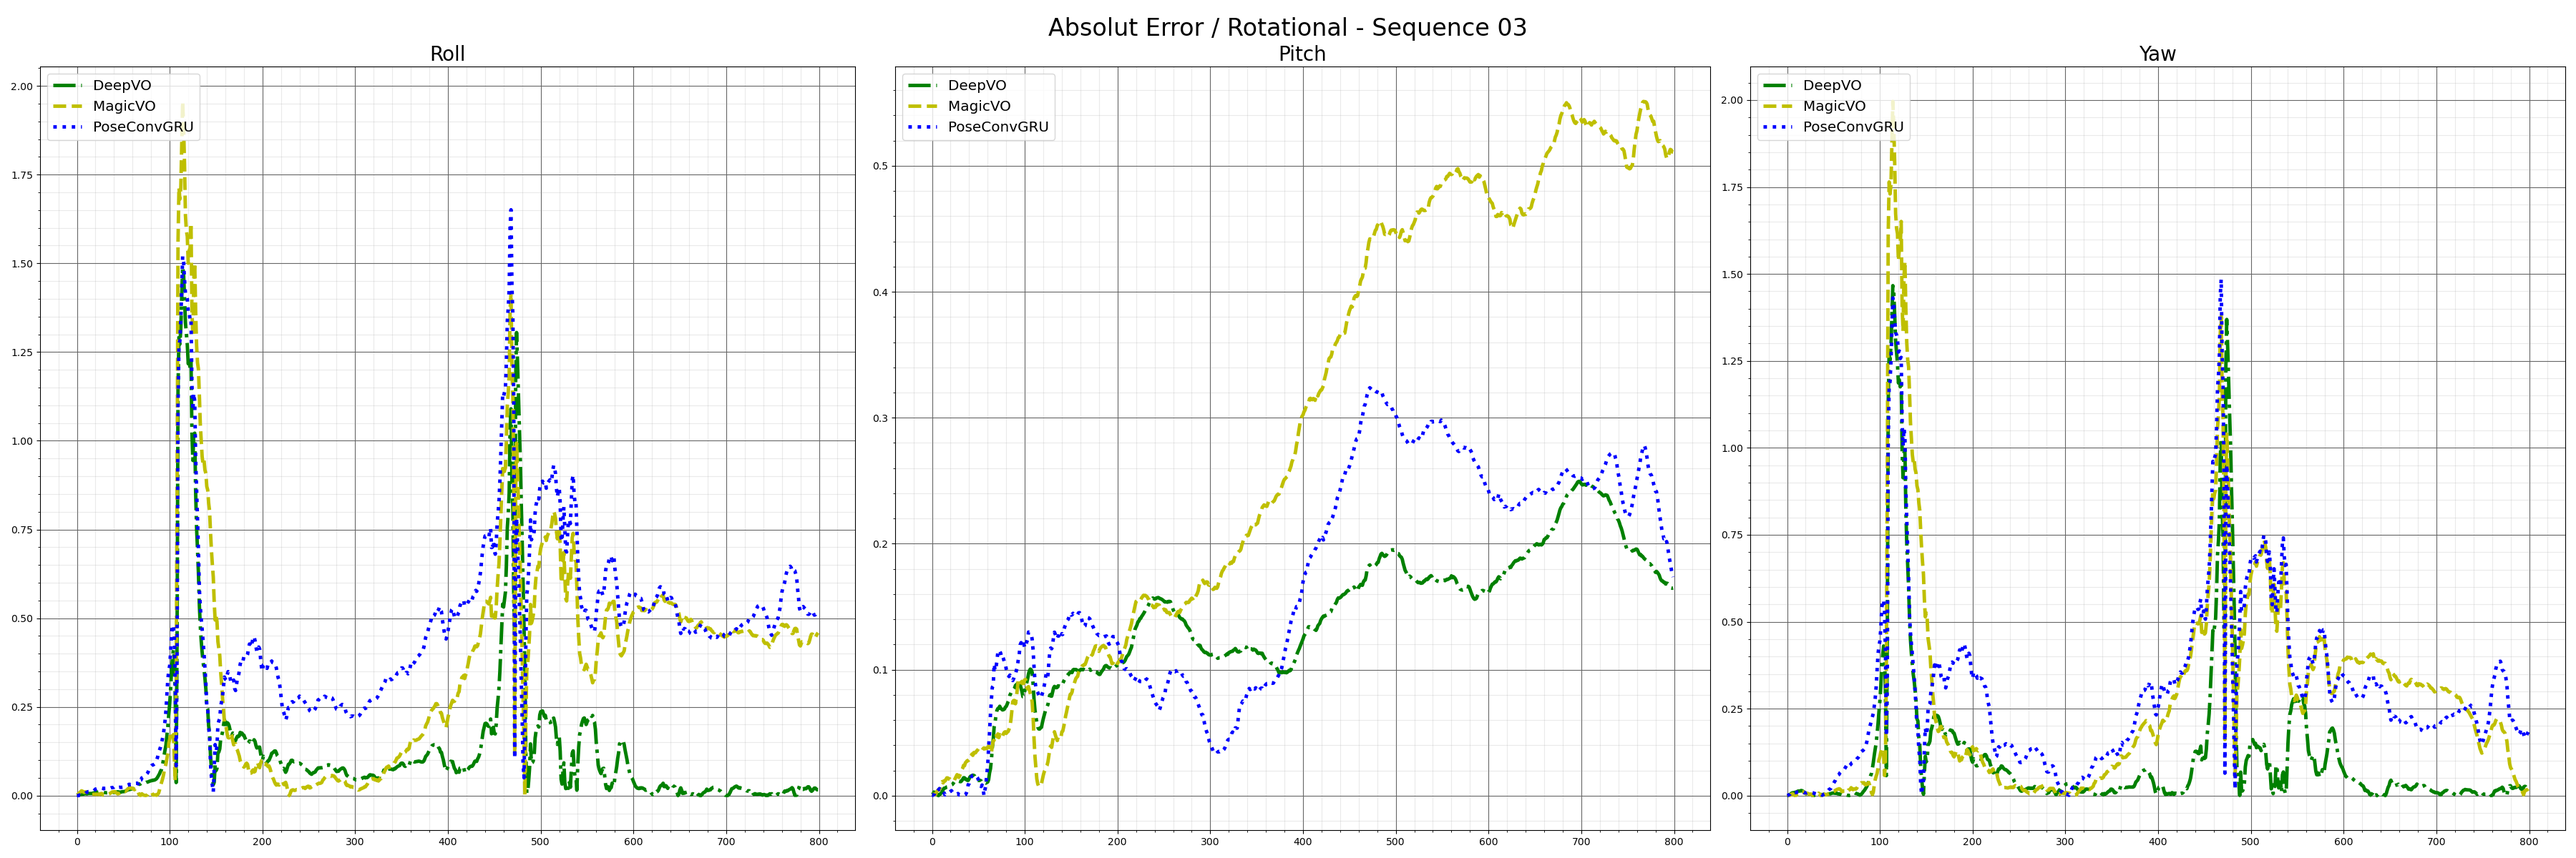
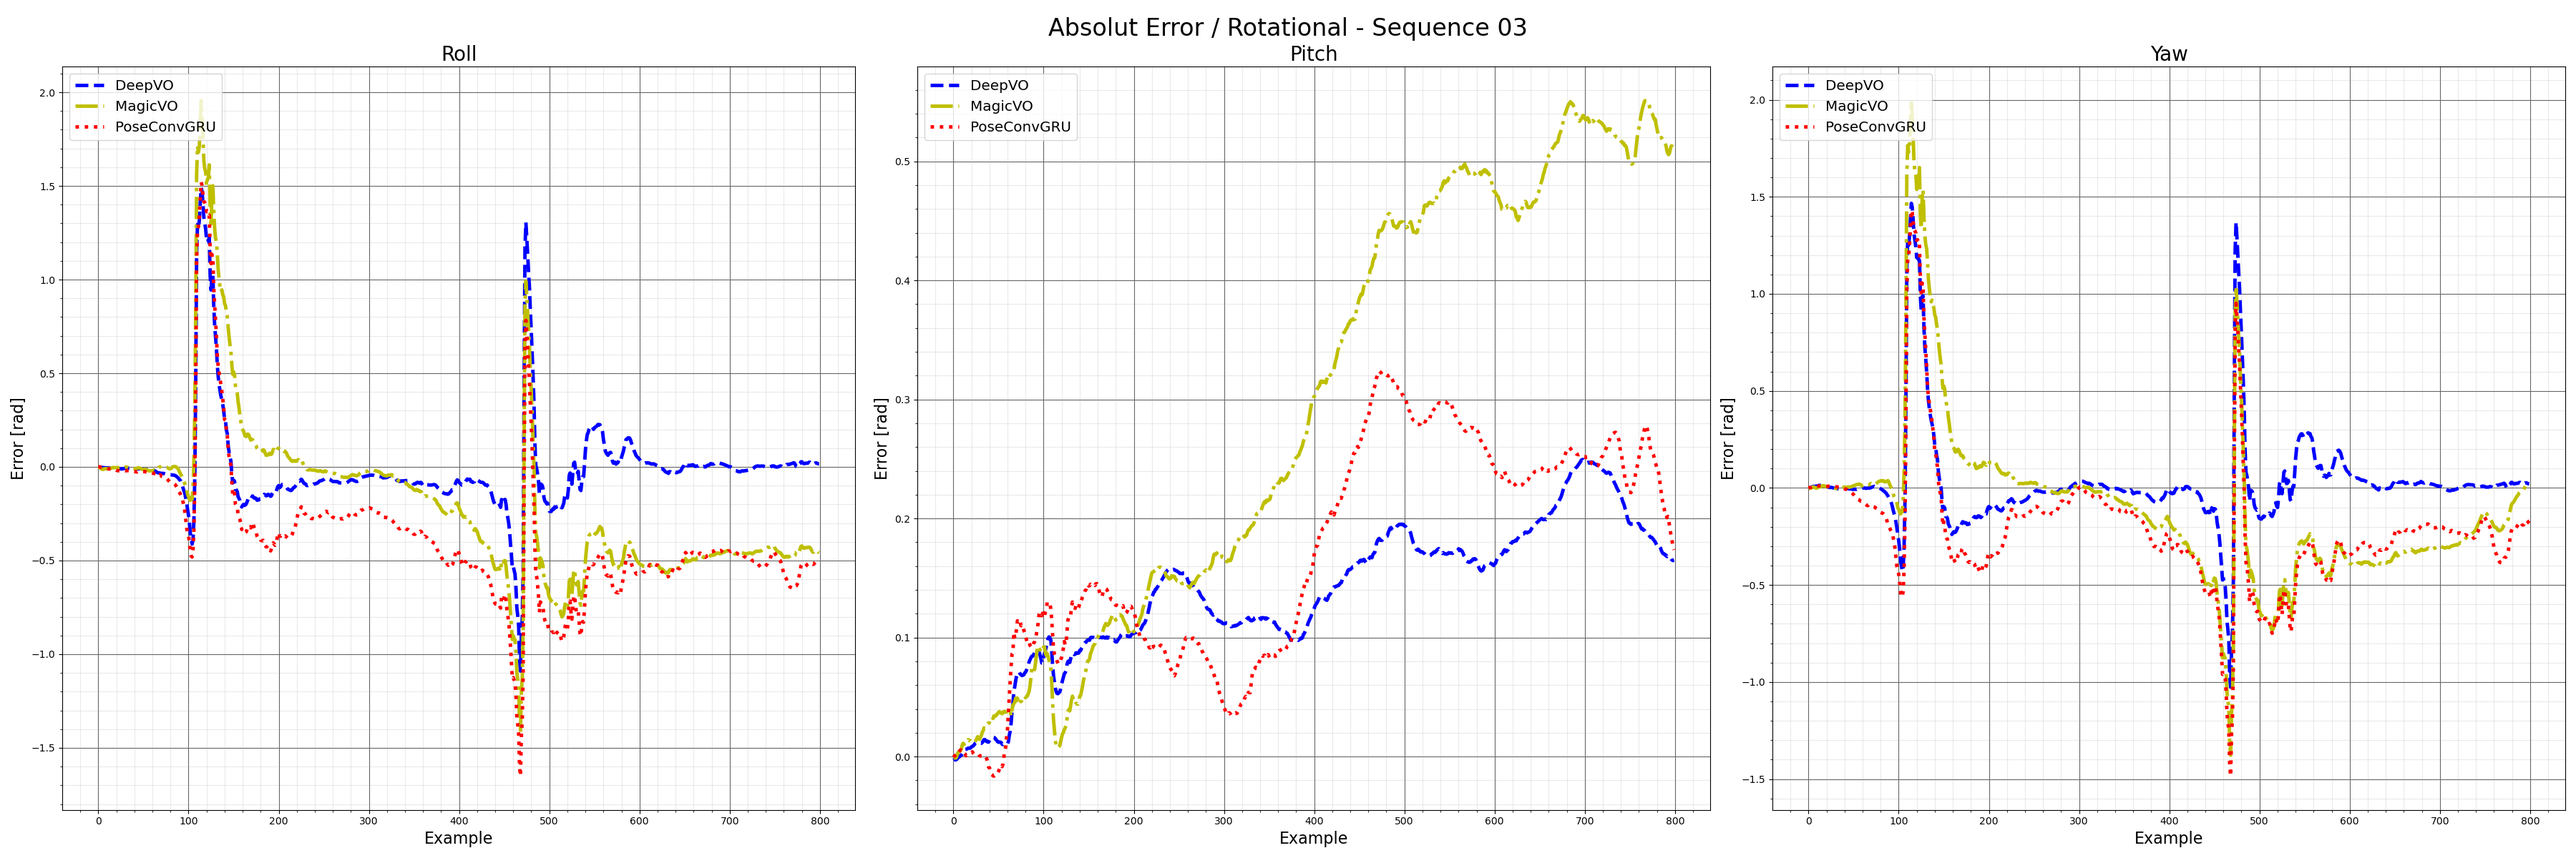
Change output images

diff --git a/visualizer.py b/visualizer.py
@@ -12,17 +12,17 @@ import numpy as np
 import pandas as pd
 
 
-def plot_route(ax, x_gt, z_gt, x_est, z_est, method, sequence):
+def plot_route(ax, x_gt, z_gt, x_est, z_est, method, sequence, color, description):
     ax.scatter(x_gt[0], z_gt[0], label='Sequence start', marker='s', color='k')
     ax.plot(x_gt, z_gt, 'k', label='Ground truth', linewidth=2.5)
-    colors = ['b', 'g', 'm', 'y', 'r']
-    c = np.random.choice(len(colors), size=1, replace=False)
-    ax.plot(x_est, z_est, colors[c[0]] + '' + '-.', label=method, linewidth=3.5)
+    ax.plot(x_est, z_est, color + '' + description, label=method, linewidth=3.5)
     ax.legend(loc='upper left', fontsize='x-large')
     ax.grid(b=True, which='major', color='#666666', linestyle='-')
     ax.minorticks_on()
     ax.grid(b=True, which='minor', color='#999999', linestyle='-', alpha=0.2)
     ax.set_title('Visual Odometry - Sequence ' + sequence, fontdict={'fontsize': 20})
+    ax.set_xlabel('X[m]', fontdict={'fontsize': 16})
+    ax.set_ylabel('Z[m]', fontdict={'fontsize': 16})
     plt.show()
 
 
@@ -34,39 +34,41 @@ def plot_one_route(ax, x_gt, z_gt, sequence):
     ax.minorticks_on()
     ax.grid(b=True, which='minor', color='#999999', linestyle='-', alpha=0.2)
     ax.set_title('Sequence ' + sequence, fontdict={'fontsize': 20})
+    ax.set_xlabel('X[m]', fontdict={'fontsize': 16})
+    ax.set_ylabel('Z[m]', fontdict={'fontsize': 16})
     plt.show()
 
 
-def comparison(ax, x_gt, z_gt, x_est, z_est, title, method):
+def comparison(ax, x_gt, z_gt, x_est, z_est, title, method, colors, descriptions):
     ax.scatter(x_gt[0], z_gt[0], label='Sequence start', marker='s', color='k')
     ax.plot(x_gt, z_gt, 'k', label='Ground truth', linewidth=2.5)
     index = 0
-    colors = ['b', 'g', 'm', 'y', 'r']
-    descriptions = ['--', '-.', ':']
-    c = np.random.choice(len(colors), size=len(method), replace=False)
-    d = np.random.choice(len(descriptions), size=len(method), replace=False)
     for x, y in zip(x_est, z_est):
-        ax.plot(x, y, colors[c[index]] + '' + descriptions[d[index]], label=method[index], linewidth=3.5)
+        ax.plot(x, y, colors[index] + '' + descriptions[index], label=method[index], linewidth=3.5)
         index += 1
     ax.legend(loc='upper left', fontsize='x-large')
     ax.grid(b=True, which='major', color='#666666', linestyle='-')
     ax.minorticks_on()
     ax.grid(b=True, which='minor', color='#999999', linestyle='-', alpha=0.2)
     ax.set_title(title, fontdict={'fontsize': 20})
+    ax.set_xlabel('X[m]', fontdict={'fontsize': 16})
+    ax.set_ylabel('Z[m]', fontdict={'fontsize': 16})
     plt.show()
 
 
-def error(axe, i, abs_error, title, method, colors, c, descriptions, d):
+def error(axe, i, abs_error, title, method, colors, descriptions, ylabel):
     ax = axe[i]
     index = 0
     for abs_error in abs_error:
-        ax.plot(abs_error, colors[c[index]] + '' + descriptions[d[index]], label=method[index], linewidth=3.5)
+        ax.plot(abs_error, colors[index] + '' + descriptions[index], label=method[index], linewidth=3.5)
         index += 1
     ax.legend(loc='upper left', fontsize='x-large')
     ax.grid(b=True, which='major', color='#666666', linestyle='-')
     ax.minorticks_on()
     ax.grid(b=True, which='minor', color='#999999', linestyle='-', alpha=0.2)
     ax.set_title(title, fontdict={'fontsize': 20})
+    ax.set_xlabel('Example', fontdict={'fontsize': 16})
+    ax.set_ylabel(ylabel, fontdict={'fontsize': 16})
 
 
 def calculate_rmse(y_true, y_pred):
@@ -136,27 +138,35 @@ def visualizer(config):
 
     x_poseconvgru = poseconvgru[:, 0]
     z_poseconvgru = poseconvgru[:, 2]
+    colors = ['b', 'y', 'r']
+    descriptions = ['--', '-.', ':']
 
     fig, ax = plt.subplots(1, figsize=(12, 12))
     plot_route(ax,
                x_gt, z_gt,
                x_deepvo, z_deepvo,
                'DeepVO',
-               config['sequence'])
+               config['sequence'],
+               colors[0],
+               descriptions[0])
 
     fig, ax = plt.subplots(1, figsize=(12, 12))
     plot_route(ax,
                x_gt, z_gt,
                x_magicvo, z_magicvo,
                'MagicVO',
-               config['sequence'])
+               config['sequence'],
+               colors[1],
+               descriptions[1])
 
     fig, ax = plt.subplots(1, figsize=(12, 12))
     plot_route(ax,
                x_gt, z_gt,
                x_poseconvgru, z_poseconvgru,
                'PoseConvGRU',
-               config['sequence'])
+               config['sequence'],
+               colors[2],
+               descriptions[2])
 
     x_est = [x_deepvo, x_magicvo, x_poseconvgru]
     z_est = [z_deepvo, z_magicvo, z_poseconvgru]
@@ -165,11 +175,13 @@ def visualizer(config):
                x_gt, z_gt,
                x_est, z_est,
                'Visual Odometry / Sequence ' + config['sequence'],
-               ['DeepVO', 'MagicVO', 'PoseConvGRU'])
+               ['DeepVO', 'MagicVO', 'PoseConvGRU'],
+               colors,
+               descriptions)
 
-    abs_error_deepvo = abs(gt_rt - deepvo_rt)
-    abs_error_magicvo = abs(gt_rt - magicvo_rt)
-    abs_error_poseconvgru = abs(gt_rt - poseconvgru_rt)
+    abs_error_deepvo = gt_rt - deepvo_rt
+    abs_error_magicvo = gt_rt - magicvo_rt
+    abs_error_poseconvgru = gt_rt - poseconvgru_rt
 
     x_abs_error = [abs_error_deepvo[:, 0], abs_error_magicvo[:, 0], abs_error_poseconvgru[:, 0]]
     y_abs_error = [abs_error_deepvo[:, 1], abs_error_magicvo[:, 1], abs_error_poseconvgru[:, 1]]
@@ -182,31 +194,30 @@ def visualizer(config):
     fig, ax = plt.subplots(1, 3, figsize=(36, 12))
     fig.suptitle('Absolut Error / Translational - Sequence ' + config['sequence'], fontsize=24)
     method = ['DeepVO', 'MagicVO', 'PoseConvGRU']
-    colors = ['b', 'g', 'm', 'y', 'r']
-    descriptions = ['--', '-.', ':']
-    c = np.random.choice(len(colors), size=len(method), replace=False)
-    d = np.random.choice(len(descriptions), size=len(method), replace=False)
     error(ax,
           0,
           x_abs_error,
           'X',
           method,
-          colors, c,
-          descriptions, d)
+          colors,
+          descriptions,
+          'Error [m]')
     error(ax,
           1,
           y_abs_error,
           'Y',
           method,
-          colors, c,
-          descriptions, d)
+          colors,
+          descriptions,
+          'Error [m]')
     error(ax,
           2,
           z_abs_error,
           'Z',
           method,
-          colors, c,
-          descriptions, d)
+          colors,
+          descriptions,
+          'Error [m]')
     plt.show()
 
     fig, ax = plt.subplots(1, 3, figsize=(36, 12))
@@ -216,22 +227,25 @@ def visualizer(config):
           roll_abs_error,
           'Roll',
           method,
-          colors, c,
-          descriptions, d)
+          colors,
+          descriptions,
+          'Error [rad]')
     error(ax,
           1,
           pitch_abs_error,
           'Pitch',
           method,
-          colors, c,
-          descriptions, d)
+          colors,
+          descriptions,
+          'Error [rad]')
     error(ax,
           2,
           yaw_abs_error,
           'Yaw',
           method,
-          colors, c,
-          descriptions, d)
+          colors,
+          descriptions,
+          'Error [rad]')
     plt.show()
 
     t_rmse_deepvo = calculate_rmse(gt_rt[:, :3], deepvo_rt[:, :3])
@@ -258,8 +272,8 @@ def visualizer_gt(config):
 
     fig, ax = plt.subplots(1, figsize=(12, 12))
     plot_one_route(ax,
-               x_gt, z_gt,
-               config['sequence'])
+                   x_gt, z_gt,
+                   config['sequence'])
 
 
 def main():
